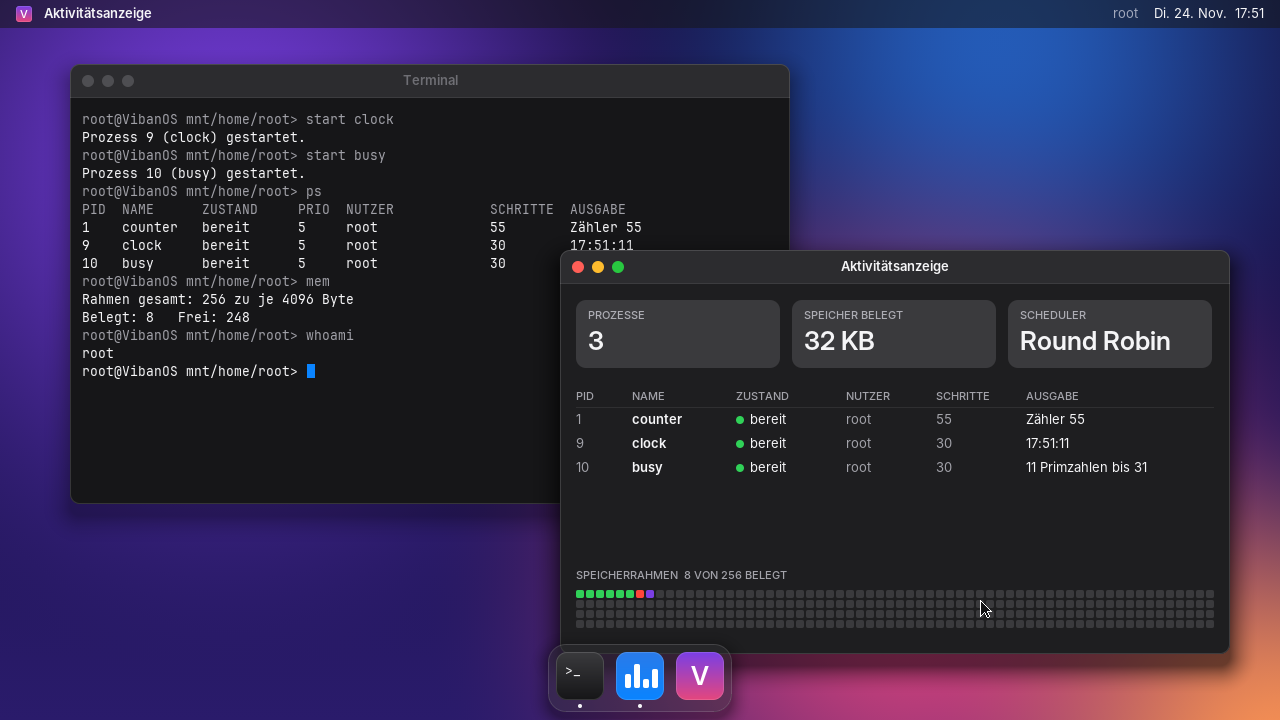
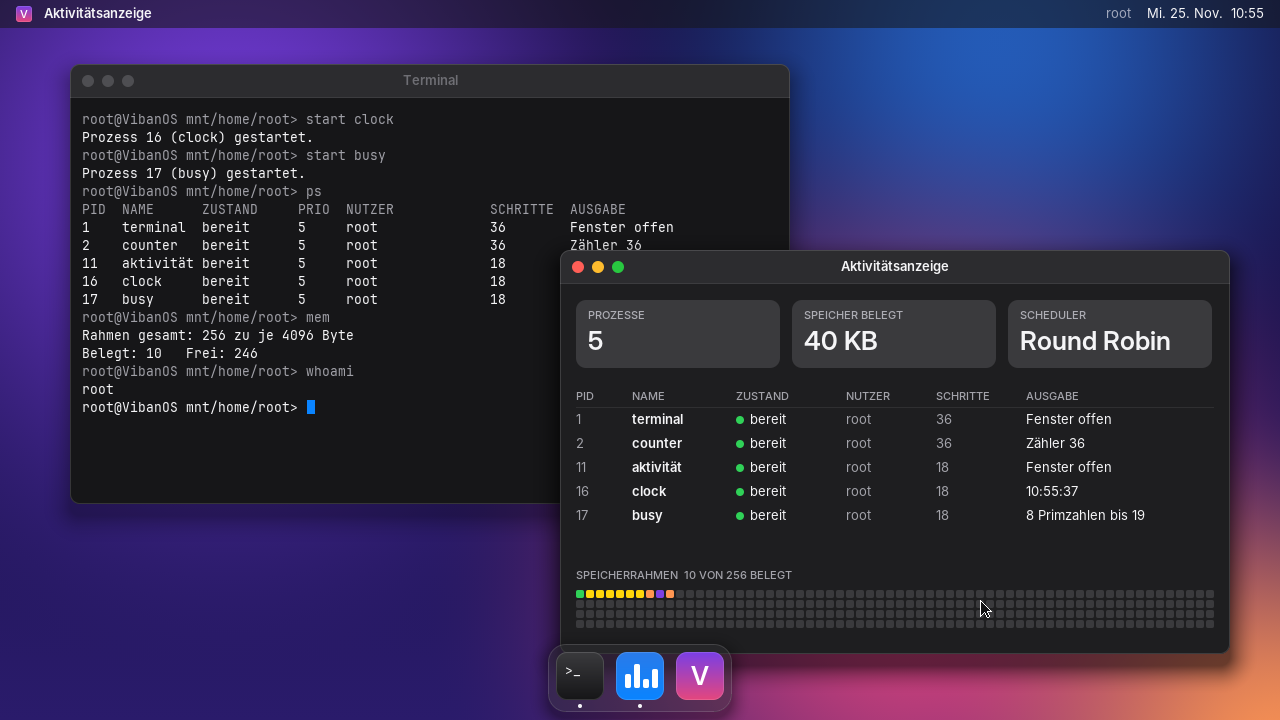
Aktivitätsanzeige: offene Apps sind Prozesse
Fenster aus dem Dock tauchten weder in ps noch in der Aktivitätsanzeige auf.
Jetzt startet jede App beim Öffnen einen Prozess und beendet ihn beim
Schließen. Wird der Prozess per kill oder Signal beendet, geht das Fenster zu.
Selbsttest: 93 Prüfungen (5 neu), PIDs in alten Prüfungen angepasst.

Claude-Session: https://claude.ai/code/session_01W26R9BJN8epsZjHC6VVfyP

diff --git a/tools/Preview/Program.cs b/tools/Preview/Program.cs
@@ -136,20 +136,22 @@ namespace VibanOS.Preview
             Check(Vfs.Resolve(Vfs.Root, "system./users.txt") == Vfs.SystemDirectory + Vfs.Separator + "users.txt", "Punkte am Namensende ergeben keinen zweiten Namen");
 
             // Prozesse und Scheduler (VIB-3)
+            // PID 1 ist das Terminal: Jede offene App ist ein Prozess und bekommt ihren Anteil.
             Type("start counter\nstart counter\nstart clock\n");
-            for (int i = 0; i < 30; i++) OS.Tick();
-            Check(OS.Processes.Get(1).Steps == 10 && OS.Processes.Get(2).Steps == 10 && OS.Processes.Get(3).Steps == 10,
+            for (int i = 0; i < 40; i++) OS.Tick();
+            Check(OS.Processes.Get(1).Name == "terminal" && OS.Processes.Get(1).Steps == 10 && OS.Processes.Get(2).Steps == 10
+                && OS.Processes.Get(3).Steps == 10 && OS.Processes.Get(4).Steps == 10,
                 "Round Robin verteilt die Schritte gleichmäßig");
             Type("ps\n");
             Check(OS.Shell.Lines[OS.Shell.Lines.Count - 3].Text.Contains("Zähler 10"), "ps zeigt die Ausgabe der Prozesse");
             int framesBefore = OS.Memory.Frames.FreeCount;
-            Type("kill 2\n");
-            Check(OS.Processes.Get(2) == null && OS.Memory.Frames.FreeCount == framesBefore + 1, "kill beendet den Prozess und gibt seinen Speicher frei");
+            Type("kill 3\n");
+            Check(OS.Processes.Get(3) == null && OS.Memory.Frames.FreeCount == framesBefore + 1, "kill beendet den Prozess und gibt seinen Speicher frei");
             Type("start counter abc\n");
-            Check(Last().Style == LineStyle.Error && OS.Processes.All.Count == 2, "start lehnt eine Priorität ab, die keine Zahl ist");
+            Check(Last().Style == LineStyle.Error && OS.Processes.All.Count == 3, "start lehnt eine Priorität ab, die keine Zahl ist");
 
             // Signale (VIB-14)
-            Process clock = OS.Processes.Get(3);
+            Process clock = OS.Processes.Get(4);
             clock.OnSignal(Signal.Stop);
             int stoppedAt = clock.Steps;
             for (int i = 0; i < 10; i++) OS.Tick();
@@ -162,35 +164,35 @@ namespace VibanOS.Preview
             clock.OnSignal(Signal.Cont);
             Check(clock.State == ProcessState.Terminated && OS.Memory.Frames.FreeCount == framesBefore + 1,
                 "Term beendet den Prozess endgültig und gibt seinen Speicher frei");
-            Check(!Ipc.Mailbox.Send(1, 3, "hallo") && Ipc.Mailbox.Send(3, 1, "hallo"), "Nachrichten gehen nur an lebende Prozesse");
-            Type("kill 3\n");
+            Check(!Ipc.Mailbox.Send(2, 4, "hallo") && Ipc.Mailbox.Send(4, 2, "hallo"), "Nachrichten gehen nur an lebende Prozesse");
+            Type("kill 4\n");
 
             // Speicher (VIB-5, VIB-7)
-            Type("alloc 1 5\n");
-            OS.Memory.WriteByte(1, 4096 + 7, 42);
-            Check(OS.Memory.ReadByte(1, 4096 + 7) == 42, "Schreiben und Lesen über die Seitentabelle");
-            Check(Throws(() => OS.Memory.ReadByte(1, 40 * 4096)), "Zugriff auf eine nicht zugeordnete Seite ist ein Page Fault");
+            Type("alloc 2 5\n");
+            OS.Memory.WriteByte(2, 4096 + 7, 42);
+            Check(OS.Memory.ReadByte(2, 4096 + 7) == 42, "Schreiben und Lesen über die Seitentabelle");
+            Check(Throws(() => OS.Memory.ReadByte(2, 40 * 4096)), "Zugriff auf eine nicht zugeordnete Seite ist ein Page Fault");
             Check(Throws(() => OS.Memory.ReadByte(99, 0)), "Fremder Prozess ohne Seitentabelle wird abgewiesen");
-            OS.Memory.TableOf(1).Pages[0].Access = PageAccess.Read;
-            Check(Throws(() => OS.Memory.WriteByte(1, 0, 1)) && OS.Memory.Log.Count == 3, "Schreibschutz greift und wird protokolliert");
-            OS.Memory.FreePage(1, 0);
-            OS.Memory.FreePage(1, 1);
-            Type("alloc 1 2\n");
-            Check(!Throws(() => OS.Memory.WriteByte(1, 0, 1)) && OS.Memory.ReadByte(1, 4096 + 7) == 0, "Eine neu vergebene Seite ist leer und beschreibbar");
-            Type("alloc 1 0\n");
+            OS.Memory.TableOf(2).Pages[0].Access = PageAccess.Read;
+            Check(Throws(() => OS.Memory.WriteByte(2, 0, 1)) && OS.Memory.Log.Count == 3, "Schreibschutz greift und wird protokolliert");
+            OS.Memory.FreePage(2, 0);
+            OS.Memory.FreePage(2, 1);
+            Type("alloc 2 2\n");
+            Check(!Throws(() => OS.Memory.WriteByte(2, 0, 1)) && OS.Memory.ReadByte(2, 4096 + 7) == 0, "Eine neu vergebene Seite ist leer und beschreibbar");
+            Type("alloc 2 0\n");
             Check(Last().Style == LineStyle.Error, "alloc verlangt mindestens eine Seite");
             Type("start counter\n");
             int hog = OS.Processes.All[OS.Processes.All.Count - 1].Id;
             Type("alloc " + hog + " 999\n");
             Check(Last().Style == LineStyle.Error && OS.Memory.Frames.FreeCount == 0, "alloc meldet, wenn der Speicher voll ist");
             Type("start clock\n");
-            Check(Last().Style == LineStyle.Error && OS.Processes.All.Count == 2, "Ohne freien Rahmen startet kein Prozess");
+            Check(Last().Style == LineStyle.Error && OS.Processes.All.Count == 3, "Ohne freien Rahmen startet kein Prozess");
             Type("kill " + hog + "\n");
             Check(OS.Memory.Frames.FreeCount > 0, "kill gibt alle Seiten des Prozesses frei");
 
             // Sperren (VIB-8)
             Type("start counter\nstart counter\nstart counter\n");
-            int a = OS.Processes.All[1].Id, b = OS.Processes.All[2].Id, c = OS.Processes.All[3].Id;
+            int a = OS.Processes.All[2].Id, b = OS.Processes.All[3].Id, c = OS.Processes.All[4].Id;
             Mutex mutex = new Mutex("test");
             Check(mutex.Lock(a) && !mutex.Lock(b) && !mutex.Lock(c) && OS.Processes.Get(b).State == ProcessState.Blocked,
                 "Eine belegte Sperre blockiert den nächsten Prozess");
@@ -323,6 +325,26 @@ namespace VibanOS.Preview
                 "Ein Fenster lässt sich nicht ganz aus dem Bildschirm oder unter das Dock ziehen");
             Click(T.Size.ScreenWidth / 2, dockRow);
             Check(desktop.Active is ActivityWindow, "Klick im Dock öffnet die App");
+            Window activity = desktop.Active;
+            Check(activity.Process != null && OS.Processes.Get(activity.Process.Id) == activity.Process && activity.Process.Name == "aktivität",
+                "Eine geöffnete App ist ein Prozess");
+            int before = OS.Processes.All.Count;
+            desktop.Open(Icons.About);
+            Window info = desktop.Active;
+            Check(OS.Processes.All.Count == before + 1, "Eine App, die nach der Aktivitätsanzeige aufgeht, wird mitgezählt");
+            Click(info.X + T.Space.M + T.Size.Control / 2, info.Y + T.Size.TitleBar / 2);
+            Check(OS.Processes.All.Count == before && OS.Processes.Get(info.Process == null ? -1 : info.Process.Id) == null,
+                "Schließen beendet den Prozess der App");
+            desktop.Open(Icons.About);
+            info = desktop.Active;
+            OS.Processes.Kill(info.Process.Id);
+            desktop.Frame(new Surface(T.Size.ScreenWidth, T.Size.ScreenHeight));
+            Check(!(desktop.Active is AboutWindow) && OS.Processes.All.Count == before, "kill auf den Prozess einer App schließt ihr Fenster");
+            desktop.Open(Icons.About);
+            info = desktop.Active;
+            info.Process.OnSignal(Signal.Term);
+            desktop.Frame(new Surface(T.Size.ScreenWidth, T.Size.ScreenHeight));
+            Check(!(desktop.Active is AboutWindow), "Das Signal Term an eine App schließt ihr Fenster");
             terminal.X = oldX;
             terminal.Y = T.Size.ScreenHeight / 2; // reicht jetzt bis unter das Dock
             Click(T.Size.ScreenWidth / 2 + T.Size.DockIcon / 2 + T.Space.M / 2, dockRow);
@@ -330,6 +352,7 @@ namespace VibanOS.Preview
             Desktop small = new Desktop(800, 600);
             small.Frame(new Surface(800, 600));
             Check(small.Active != null && small.Active.X >= 0, "Auch bei 800x600 beginnt das Terminal auf dem Bildschirm");
+            OS.Processes.Kill(small.Active.Process.Id); // Der zweite Schreibtisch soll im Bild keinen Prozess hinterlassen.
             Check(ActivityWindow.Fit(Fonts.Body, "root", 82) == "root" && Fonts.Body.Measure(ActivityWindow.Fit(Fonts.Body, "max_mustermann12", 82)) <= 82,
                 "Lange Nutzernamen werden für die Prozesstabelle gekürzt");
             Surface plain = new Surface(200, 120);

diff --git a/VibanOS/Gui/Desktop.cs b/VibanOS/Gui/Desktop.cs
@@ -2,6 +2,7 @@ using System;
 using System.Collections.Generic;
 using VibanOS.Core;
 using VibanOS.Graphics;
+using VibanOS.Processes;
 using T = VibanOS.Design.Tokens;
 
 namespace VibanOS.Gui
@@ -115,9 +116,12 @@ namespace VibanOS.Gui
         {
             if (apps[icon] != null) { Focus(apps[icon]); return; }
             Window w;
-            if (icon == Icons.Terminal) w = new TerminalWindow();
-            else if (icon == Icons.Activity) w = new ActivityWindow();
-            else w = new AboutWindow();
+            string name;
+            if (icon == Icons.Terminal) { w = new TerminalWindow(); name = "terminal"; }
+            else if (icon == Icons.Activity) { w = new ActivityWindow(); name = "aktivität"; }
+            else { w = new AboutWindow(); name = "info"; }
+            // Jede offene App ist ein Prozess, sonst fehlt sie in ps und in der Aktivitätsanzeige.
+            w.Process = OS.Processes.Start(new AppProcess(name));
             // Neue Fenster leicht versetzt, damit sie sich nicht genau überdecken
             w.X = (scene.Width - w.Width) / 2 + (icon - 1) * T.Space.XXL * 3;
             w.Y = T.Size.MenuBar + T.Space.XL + icon * T.Space.XXL;
@@ -137,6 +141,8 @@ namespace VibanOS.Gui
 
         private void Close(Window w)
         {
+            if (w.Process != null) OS.Processes.Kill(w.Process.Id);
+            w.Process = null;
             Remove(w);
             for (int i = 0; i < apps.Length; i++)
                 if (apps[i] == w) apps[i] = null;
@@ -163,6 +169,12 @@ namespace VibanOS.Gui
                 lastSecond = now.Second;
                 for (int i = 0; i < windows.Count; i++)
                     if (windows[i].Live) OS.Changed = true;
+            }
+            // Wurde der Prozess einer App beendet (kill, Signal), geht ihr Fenster zu.
+            for (int i = windows.Count - 1; i >= 0; i--)
+            {
+                Process p = windows[i].Process;
+                if (p != null && (p.State == ProcessState.Terminated || OS.Processes.Get(p.Id) != p)) Close(windows[i]);
             }
             if (Locked && login.LockExpired(now)) OS.Changed = true;
             if (wasLocked && !Locked && windows.Count == 0) Open(Icons.Terminal);

diff --git a/VibanOS/Gui/Window.cs b/VibanOS/Gui/Window.cs
@@ -1,4 +1,5 @@
 using VibanOS.Graphics;
+using VibanOS.Processes;
 using T = VibanOS.Design.Tokens;
 
 namespace VibanOS.Gui
@@ -14,6 +15,9 @@ namespace VibanOS.Gui
     {
         public int X, Y, Width, Height;
         public string Title = "";
+
+        /// <summary>Prozess des Fensters, solange es offen ist. null, wenn beim Öffnen kein Speicher frei war.</summary>
+        public Process Process;
 
         /// <summary>true: Inhalt ändert sich von selbst und wird jede Sekunde neu gezeichnet.</summary>
         public virtual bool Live { get { return false; } }

diff --git a/VibanOS/Processes/AppProcess.cs b/VibanOS/Processes/AppProcess.cs
@@ -1,0 +1,13 @@
+namespace VibanOS.Processes
+{
+    /// <summary>
+    /// Prozess eines offenen Fensters. Der Schreibtisch startet ihn beim Öffnen und beendet ihn beim Schließen,
+    /// damit ps und die Aktivitätsanzeige auch die Apps zeigen. Wird er beendet (kill, Signal), schließt sich das Fenster.
+    /// </summary>
+    public class AppProcess : Process
+    {
+        public AppProcess(string name) { Name = name; Output = "Fenster offen"; }
+
+        public override void Step() { }
+    }
+}
